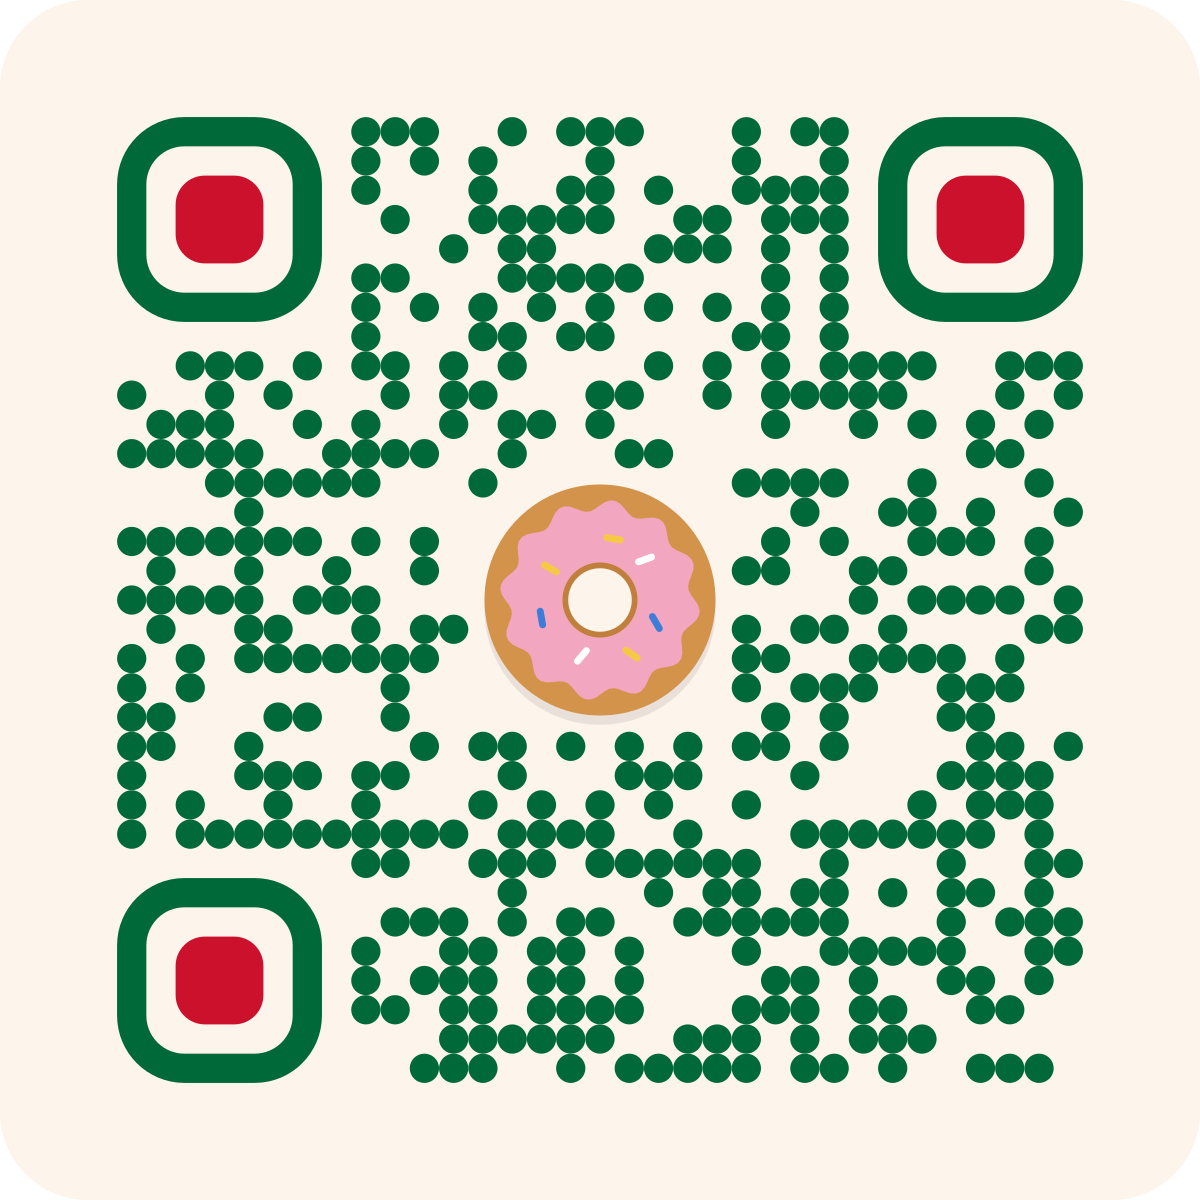
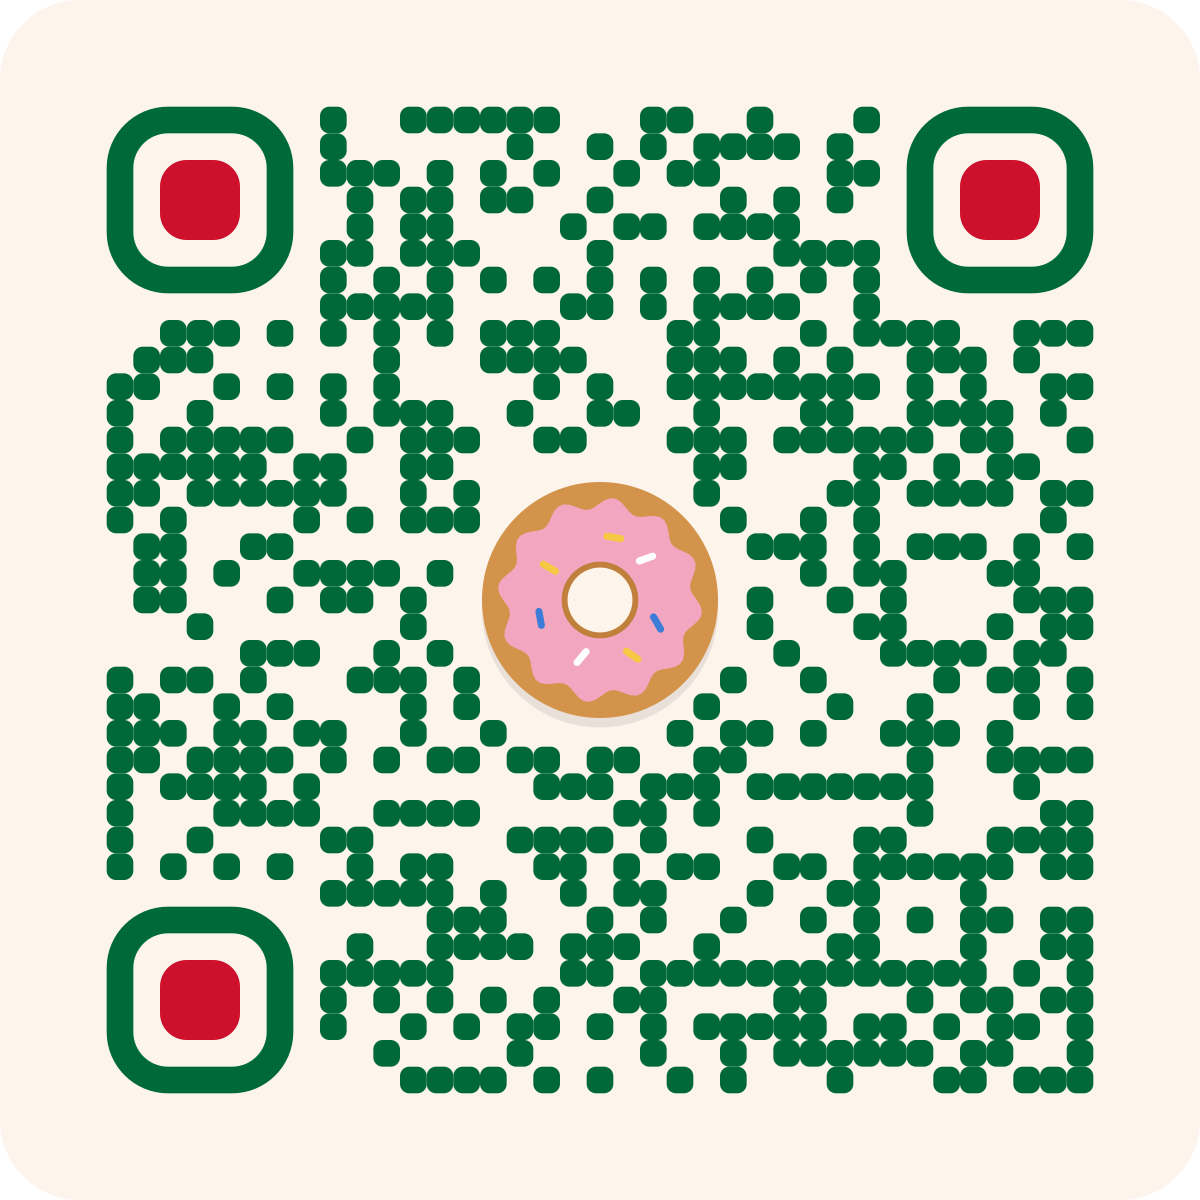
Move demo to hack2026.tatuck.com; sturdier invite QR
Rounded-square modules decode at every tested size (dots failed with the
longer URL).

Claude-Session: https://claude.ai/code/session_017XpG7y4jvmAekVaXKaa6ce

diff --git a/README.es.md b/README.es.md
@@ -1,6 +1,6 @@
 # Krispy Kreme Madrid · Rewards
 
-[🇬🇧 English](README.md) · 🇪🇸 Español · **Demo: https://krispykreme-hackathon-2026.vercel.app**
+[🇬🇧 English](README.md) · 🇪🇸 Español · **Demo: https://hack2026.tatuck.com**
 
 App web de fidelización y referidos creada para el **hackathon de Krispy Kreme organizado por [STARTComillas](https://www.instagram.com/startcomillas/)** (Universidad Pontificia Comillas, Madrid, octubre de 2026).
 

diff --git a/README.md b/README.md
@@ -1,6 +1,6 @@
 # Krispy Kreme Madrid · Rewards
 
-🇬🇧 English · [🇪🇸 Español](README.es.md) · **Live demo: https://krispykreme-hackathon-2026.vercel.app**
+🇬🇧 English · [🇪🇸 Español](README.es.md) · **Live demo: https://hack2026.tatuck.com**
 
 Loyalty and referral web app built for the **Krispy Kreme hackathon organized by [STARTComillas](https://www.instagram.com/startcomillas/)** (Universidad Pontificia Comillas, Madrid, October 2026).
 
